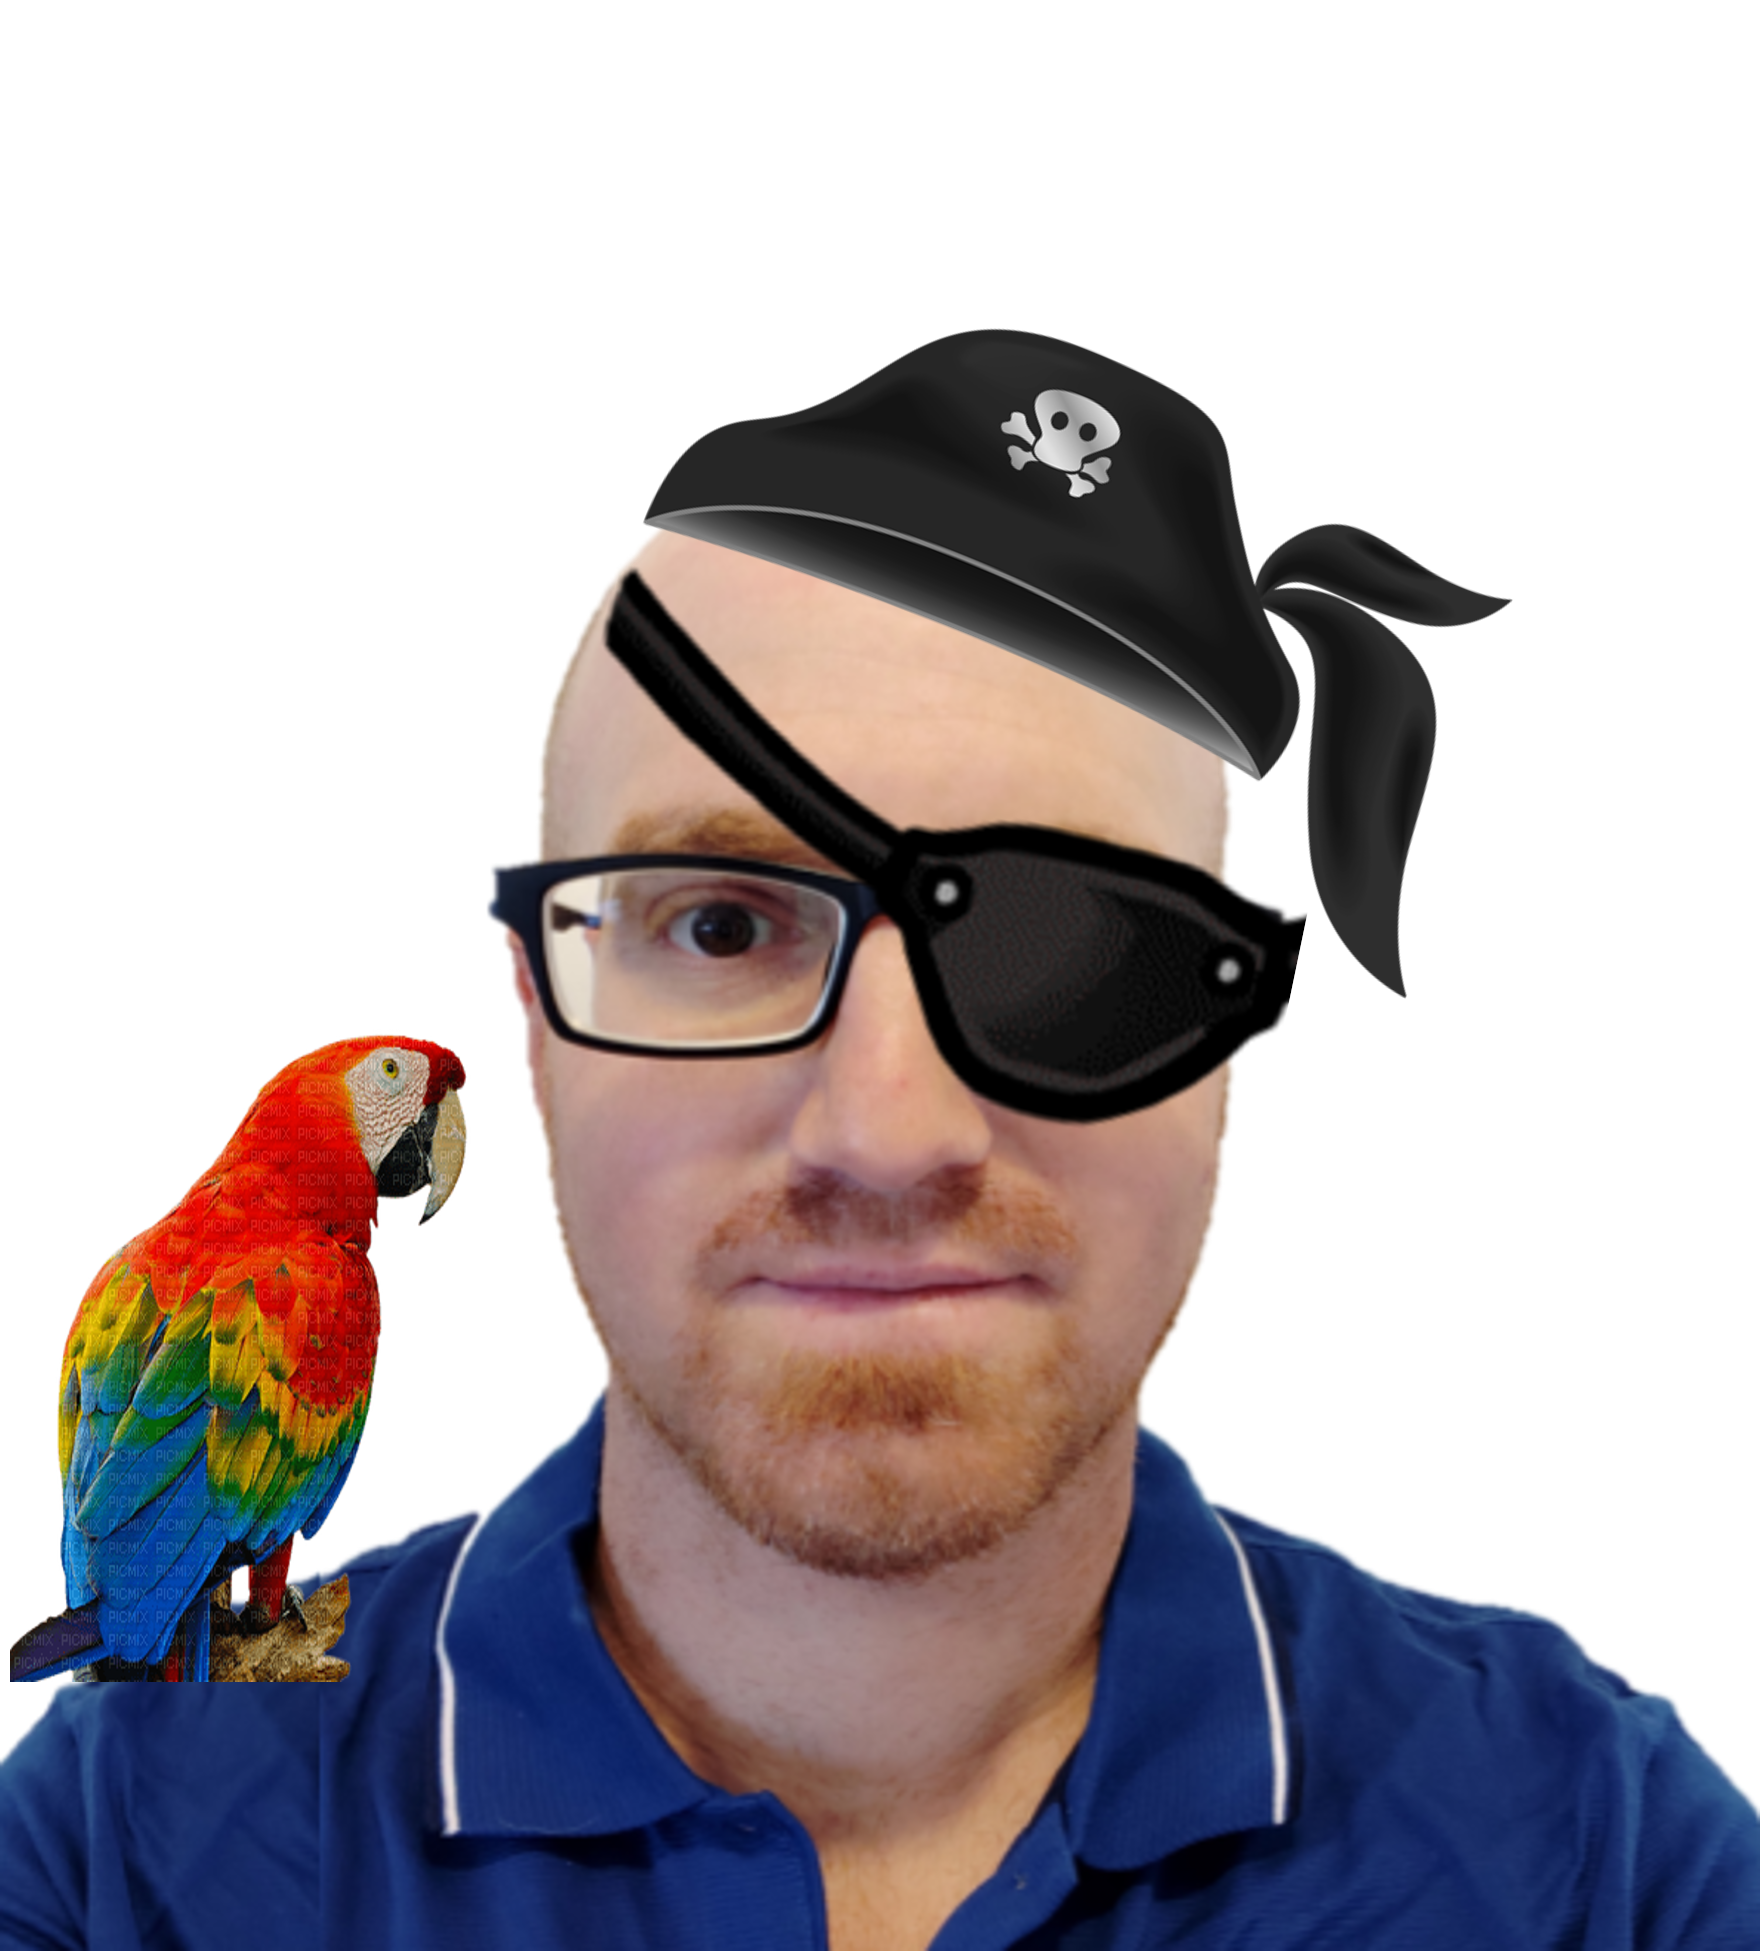
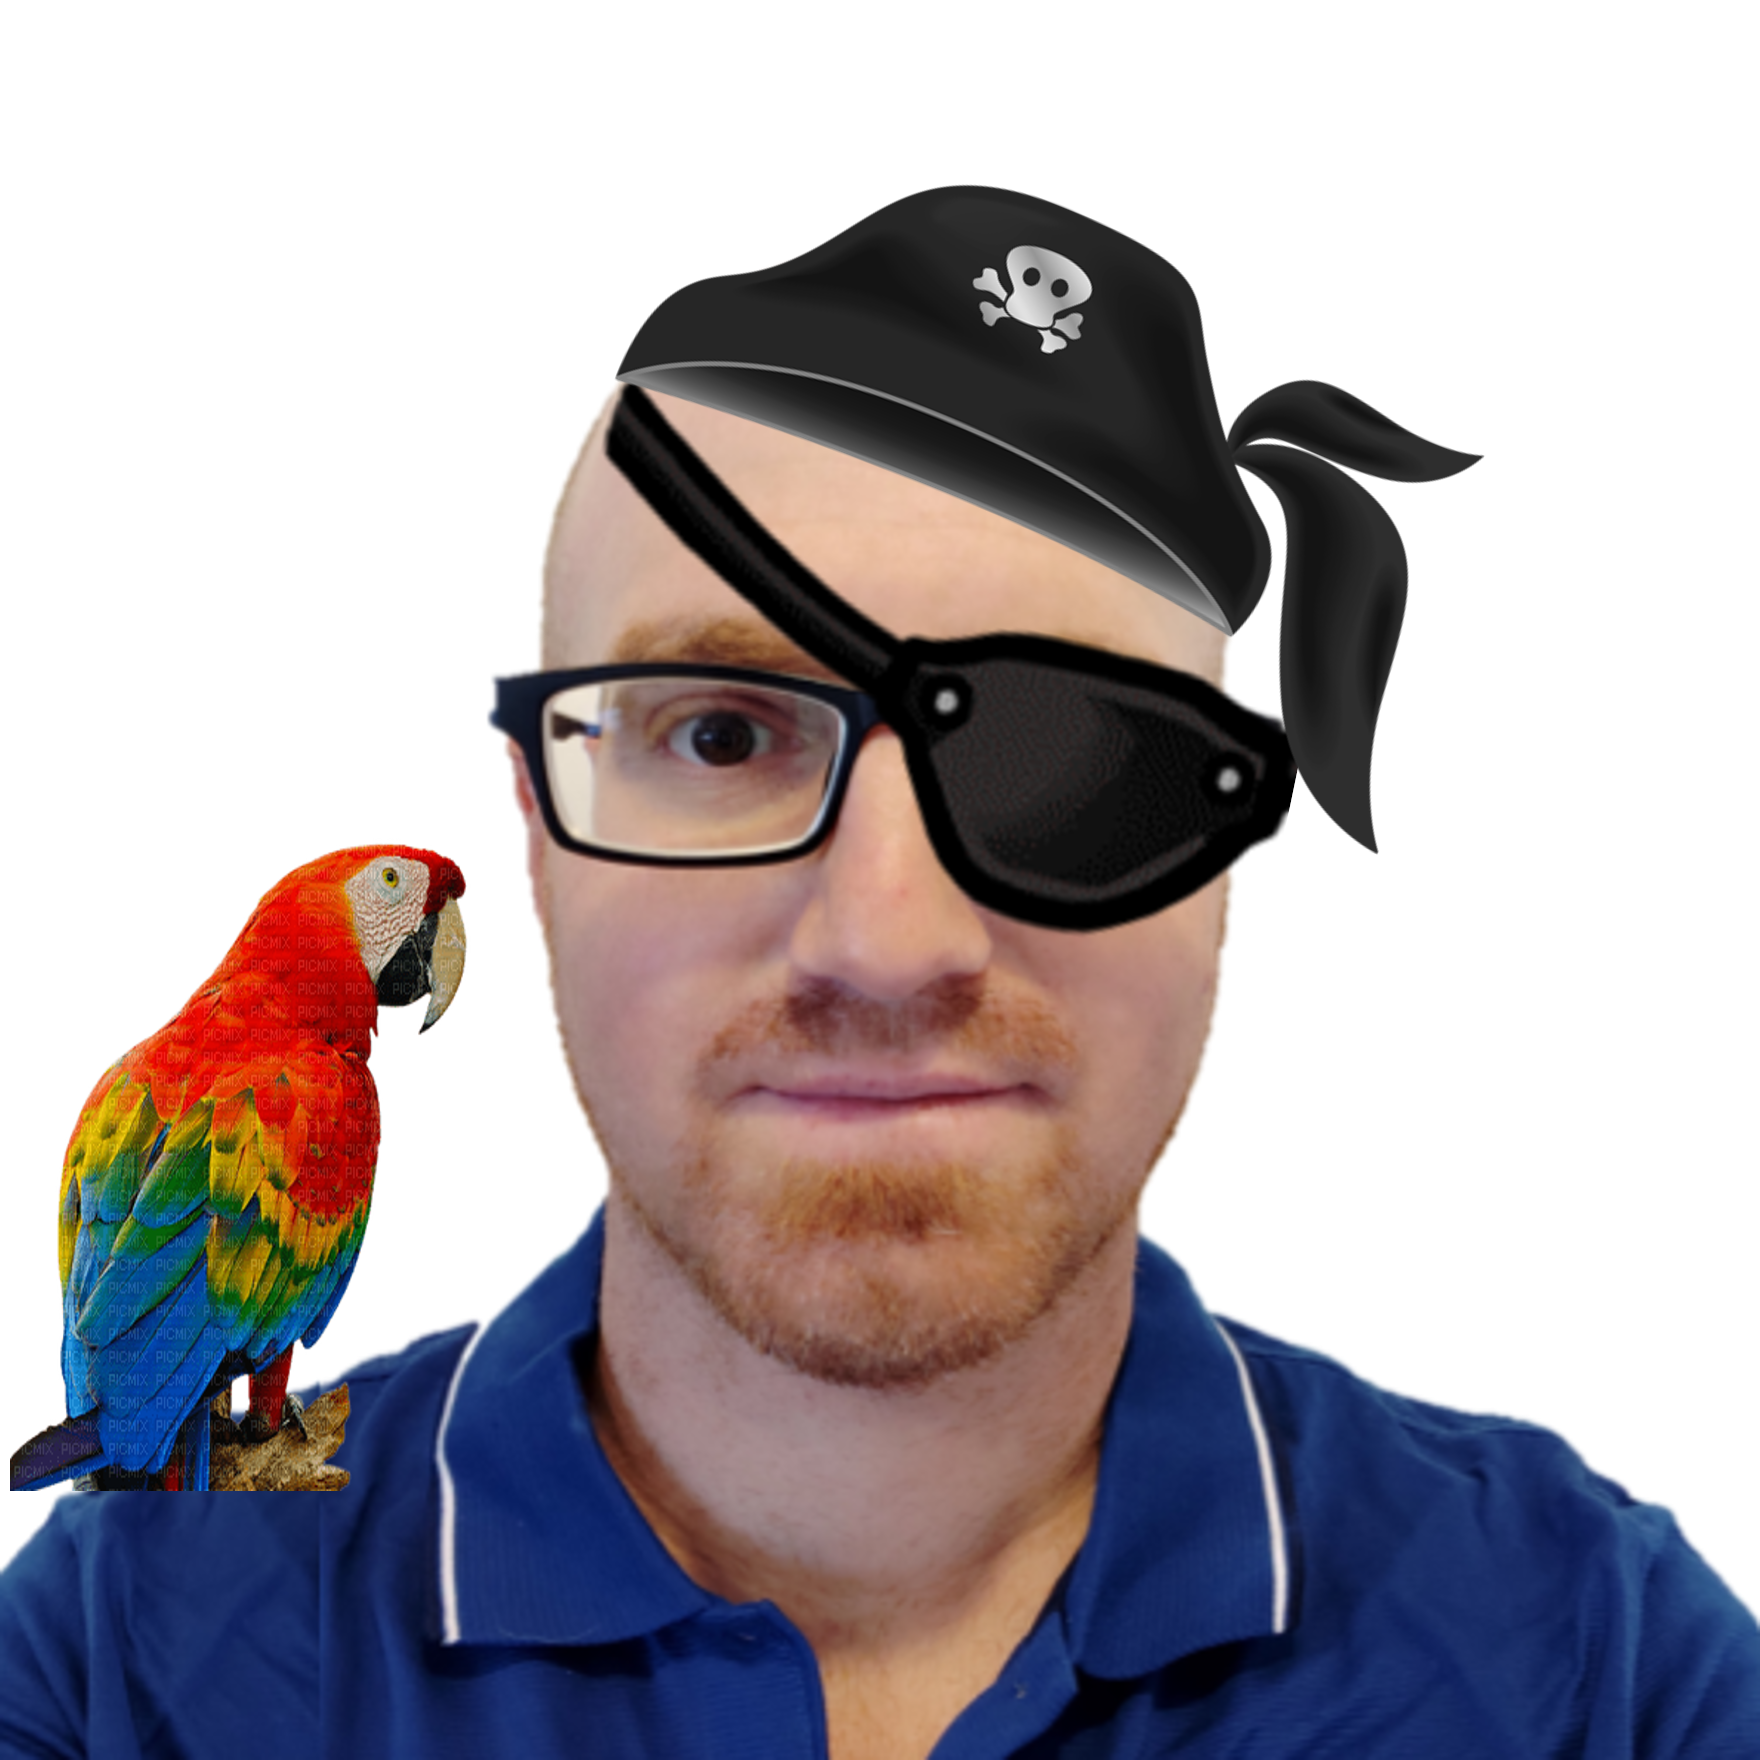
images chane on click

Changed region(s): [[0.0, 0.0938, 1.0, 0.9688], [0.5312, 0.9688, 0.5625, 1.0]]

diff --git a/src/components/profileImage.jsx b/src/components/profileImage.jsx
@@ -4,18 +4,24 @@ import { useState } from "react";
 
 const isFunnyImageProfile = true;
 export const ProfileImage = (props) => {
-    const allImages = '';
+
 
     const funnyImages = props.funnyImages;
-    const [imagesState, setImageState] = useState(0);
+    const [imagesState, setImageState] = useState(1);
     const [imgSrc, setimgSrc] = useState(props.profileImage);
-    const imageClickHandler = (evnet) => {
-        if (imagesState < funnyImages.lenght) {
+    const imageClickHandler = (ev) => {
+
+        if (!isFunnyImageProfile) {
+            return;
+        }
+        if (imagesState + 1 < funnyImages.length) {
             setImageState(imagesState + 1);
         } else {
             setImageState(0)
         }
+
         setimgSrc(funnyImages[imagesState])
+        console.log(imagesState, funnyImages[imagesState]);
     }
     return (<img onClick={imageClickHandler} className="profile profile-image" src={imgSrc}
         // {this.state.info.image} 

diff --git a/src/index.js b/src/index.js
@@ -1,9 +1,23 @@
 import React from 'react';
 import ReactDOM from "react-dom";
+import { StrictMode } from 'react';
+import { createRoot } from 'react-dom/client';
 import './index.css';
 import App from './App';
 import registerServiceWorker from './registerServiceWorker';
 
+// 👇 IMPORTANT: use correct ID of your root element
+// this is the ID of the div in your index.html file
+const rootElement = document.getElementById('root');
+// @ts-ignore
+const root = createRoot(rootElement);
 
-ReactDOM.render(<App />, document.getElementById('root'));
-registerServiceWorker();
+// 👇 if you use TypeScript, add non-null (!) assertion operator
+// const root = createRoot(rootElement!);
+
+root.render(
+    <StrictMode>
+        <App />
+    </StrictMode>,
+);
+//registerServiceWorker();

diff --git a/src/App.js b/src/App.js
@@ -36,7 +36,7 @@ class App extends Component {
                 <Buttons></Buttons>
                 <div className="sidebar-wrapper">
                     <div className="profile-container">
-                        <ProfileImage profileImage={profileImage} funnyImages={[p1, p2, p3]} />
+                        <ProfileImage profileImage={profileImage} funnyImages={[p1, p2, p3, profileImage]} />
                         <h1 className="name"> {this.state.info.name} </h1>
                         <h3 className="tagline">Front-End Developer</h3>
                     </div>
